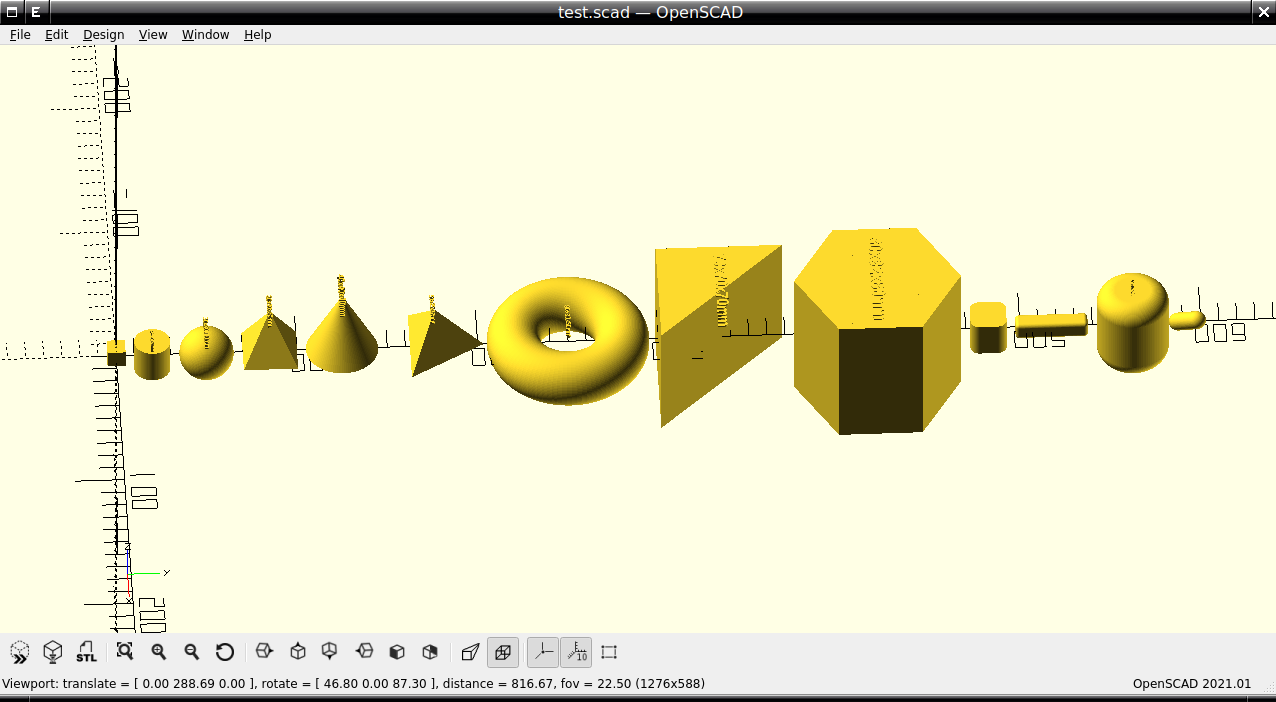
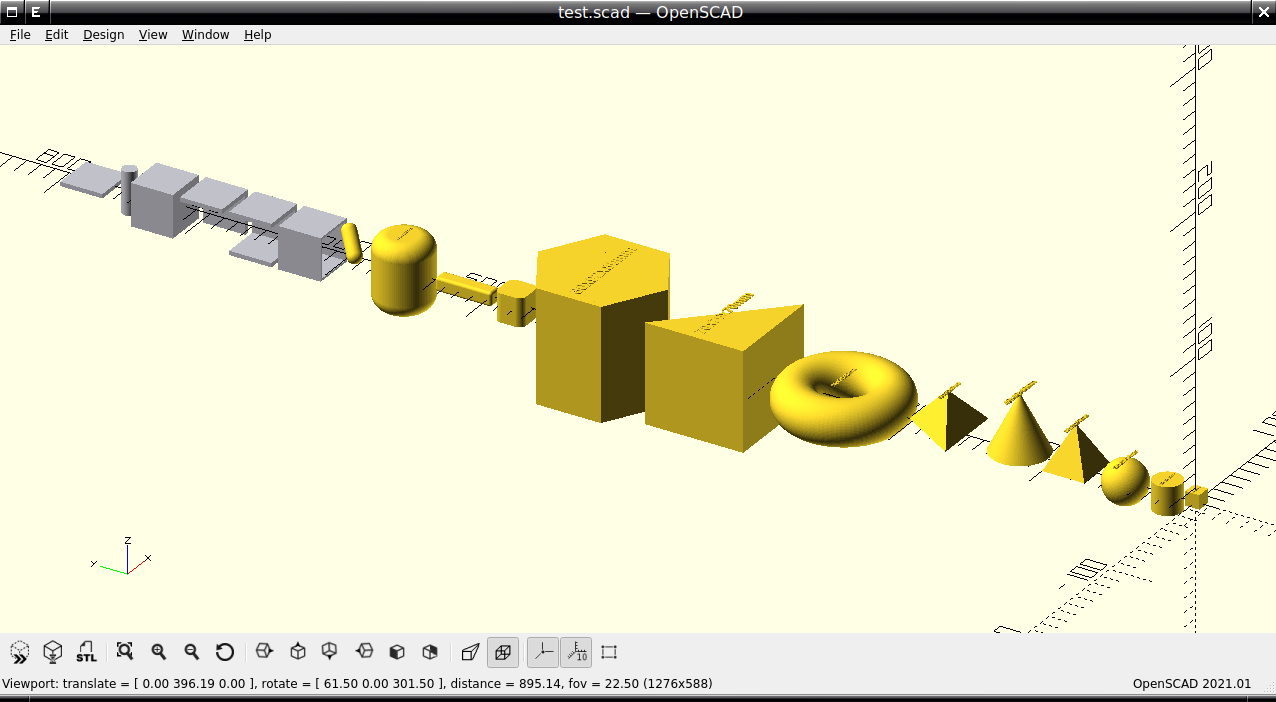
started porting stock materials

diff --git a/new/stock_materials.py b/new/stock_materials.py
@@ -1,0 +1,173 @@
+import math
+from solid import *
+from solid.utils import *
+from core import *
+
+class SHS(Component):
+    
+    def __init__(self, width, thickness, length = 100, end1_cut_angle = 0.0, end2_cut_angle = 0.0):
+        self.width = width
+        self.length = length
+        self.height = thickness
+        self.thickness = thickness
+        self.end1_cut_angle = end1_cut_angle
+        self.end2_cut_angle = end2_cut_angle
+        
+    def create(self):
+        # works for -45 and 45.0
+        # TODO: make work for any angle
+    
+        p = cube([self.width, self.length, self.width], center = True) - cube([self.width - self.thickness, self.length + 2, self.width - self.thickness], center = True)
+
+        if self.end1_cut_angle != 0:
+            l = math.sqrt(2 * (self.width) * (self.width))
+            if self.end1_cut_angle < 0:
+                c = translate([0, 0, -(self.width) / 2.0]) (rotate(self.end1_cut_angle, [1, 0, 0]) (cube([self.width + 2, l, l], center = True)))
+            else:
+                c = translate([0, 0, (self.width) / 2.0]) (rotate(self.end1_cut_angle, [1, 0, 0]) (cube([self.width + 2, l, l], center = True)))
+            p -= translate([0, self.length / 2.0, 0]) (c)
+
+        if self.end2_cut_angle != 0:
+            l = math.sqrt(2 * (self.width) * (self.width))
+            if self.end2_cut_angle < 0:
+                c = translate([0, 0, -(self.width) / 2.0]) (rotate(self.end2_cut_angle, [1, 0, 0]) (cube([self.width + 2, l, l], center = True)))
+            else:
+                c = translate([0, 0, (self.width) / 2.0]) (rotate(self.end2_cut_angle, [1, 0, 0]) (cube([self.width + 2, l, l], center = True)))
+            p -= translate([0, -self.length / 2.0, 0]) (c)
+
+        p = color(Aluminum) (p)
+
+        return p
+
+class CS(Component):
+    
+    def __init__(self, width, thickness, length):
+        self.width = width
+        self.length = length
+        self.height = thickness
+        self.thickness = thickness
+        
+    def create(self):
+        p = cube([self.width, self.length, self.width], center = True) - \
+            translate([-0.5 - self.thickness, 0, 0]) (cube([self.width + 1, self.length + 2, self.width - self.thickness * 2.0], center = True))
+        p = color(Aluminum) (p)
+        return p
+
+class LS(Component):
+    
+    def __init__(self, width, height, thickness, length):
+        self.width = width
+        self.length = length
+        self.height = height
+        self.thickness = thickness
+        
+    def create(self):
+        p = cube([self.width, self.length, self.height], center = True) - translate([-0.5 - self.thickness, 0, -0.5 - self.thickness]) (cube([self.width + 1, self.length + 2, self.height + 1], center = True))
+        p = color(Aluminum) (p)
+        return p
+
+class SB(Component):
+    
+    def __init__(self, width, length):
+        self.width = width
+        self.length = length
+        self.height = width
+
+    def create(self):
+        p = cube([self.width, self.length, self.width], center = True)
+        p = color(Aluminum) (p)
+        return p
+
+class Rod(Component):
+    
+    def __init__(self, dia, length, segments_count = 100):
+        self.width = dia
+        self.length = dia
+        self.height = length
+        self.segments_count = segments_count
+        self.dia = dia
+
+    def create(self):
+        return color(Aluminum) (cylinder(d = self.dia, h = self.height, center = True, segments = self.segments_count))
+
+class Sheet(Component):
+
+    def __init__(self, width = 600, length = 2400, thickness = 1.2):
+        self.width = width
+        self.length = length
+        self.height = thickness
+        self.thickness = thickness
+
+    def create(self):
+        p = cube([self.width, self.length, self.thickness], center = True)
+        p = color(Aluminum) (p)
+        return p
+
+class Wedge(Component):
+
+    def __init__(self, r, h, sa, ea, segments_count = 100):
+        self.width = r
+        self.length = r
+        self.height = h
+        self.r = r
+        self.h = h
+        self.sa = sa
+        self.ea = ea
+        self.segments_count = segments_count
+        # TODO make work for larger then 180deg
+
+    def create(self):
+    
+        c = cylinder(r = self.r, h = self.h, center = True, segments = self.segments_count)
+
+        l = self.r * 2.0 + 2.0
+        cut = cube([l, l, self.h + 2.0], center = True)
+
+        p = c - \
+            rotate(math.degrees(self.sa), [0, 0, 1]) (translate([0, -l / 2.0, 0]) (cut)) - \
+            rotate(math.degrees(self.ea) + 180, [0, 0, 1]) (translate([0, -l / 2.0, 0]) (cut))
+    
+        return p
+
+class Hinge(Component):
+
+    def __init__(self, d, axle_d, h, hinge_segments, l, tolerance, is_left, segments_count = 100):
+        self.width = h
+        self.length = h
+        self.height = h
+        self.d = d
+        self.axle_d = d
+        self.h = h
+        self.hinge_segments = hinge_segments
+        self.l = l
+        self.tolerance = tolerance
+        self.is_left = is_left
+        self.segments_count = segments_count
+    
+    def create(self):
+
+        c = cylinder(d = self.d, h = self.h, center = True, segments = self.segments_count)
+        axle = cylinder(d = self.axle_d + self.tolerance, h = self.h + 2.0, center = True, segments = self.segments_count)
+        a = cube([self.l, self.d / 2.0, self.h], center = True)
+
+        cc_h = self.h / self.hinge_segments
+        cc = cylinder(d = self.d + self.tolerance * 2.0, h = cc_h + self.tolerance * 2.0, center = True, segments = self.segments_count)
+
+        offset = self.d / 4.0
+        if self.is_left:
+            offset = -offset
+        p = translate([self.l / 2.0, offset, 0]) (a)
+
+        p += c    
+        if self.is_left:
+            start_idx = 0
+        else:
+            start_idx = 1
+
+        # odd set
+        for i in range(start_idx, self.hinge_segments, 2):
+            p -= translate([0, 0, -self.h / 2.0 + cc_h / 2.0 + cc_h * i]) (cc)
+
+        p -= axle
+     
+        return p

diff --git a/new/test.py b/new/test.py
@@ -4,6 +4,7 @@ from solid.utils import *
 from core import *
 from geometry import *
 from curved import *
+from stock_materials import *
 
 def build(config):
 
@@ -28,6 +29,17 @@ def build(config):
     # Point Based Shapes
     subassembly.add('line_round_via_hull', LineRoundViaHull((0, 0, 0), (10, 10, 10), 5))
     #subassembly.add('polyline_round', PolylineRound([(0, 0, 0), (10, 10, 10), (0, 0, 10)], 2))
+
+    # Stock Materials
+    subassembly.add('square_hollow_section', SHS(30, 3, 30))
+    subassembly.add('channel_section', CS(30, 3, 30))
+    subassembly.add('l_section', LS(30, 30, 3, 30))
+    subassembly.add('solid_section', SB(30, 30))
+    subassembly.add('rod', Rod(10, 30))
+    subassembly.add('sheet', Sheet(30, 30, 3))
+    #subassembly.add('wedge', Wedge(10, 10, 2, 2))
+    #subassembly.add('hinge', Hinge(3, 10, 20, 100, 100, 1, True, 100))
+    
     
     # demo stacking/aligning with margin/pitch
     #subassembly.stack_x(5)

diff --git a/new/curved.py b/new/curved.py
@@ -165,9 +165,9 @@ class CylinderCurvedEdges(Component):
 class LineRoundViaHull(Component):
     
     def __init__(self, p1, p2, radius, segments_count = 100):
-        self.width = p1[0] - p2[0] + radius * 2
-        self.length = p1[1] - p2[1] + radius * 2
-        self.height = p1[2] - p2[2] + radius * 2
+        self.width = p2[0] - p1[0] + radius * 2
+        self.length = p2[1] - p1[1] + radius * 2
+        self.height = p2[2] - p1[2] + radius * 2
         self.origin = (p2[0] - p1[0], p2[1] - p1[1], p2[2] - p1[2])
         self.p1 = p1
         self.p2 = p2
